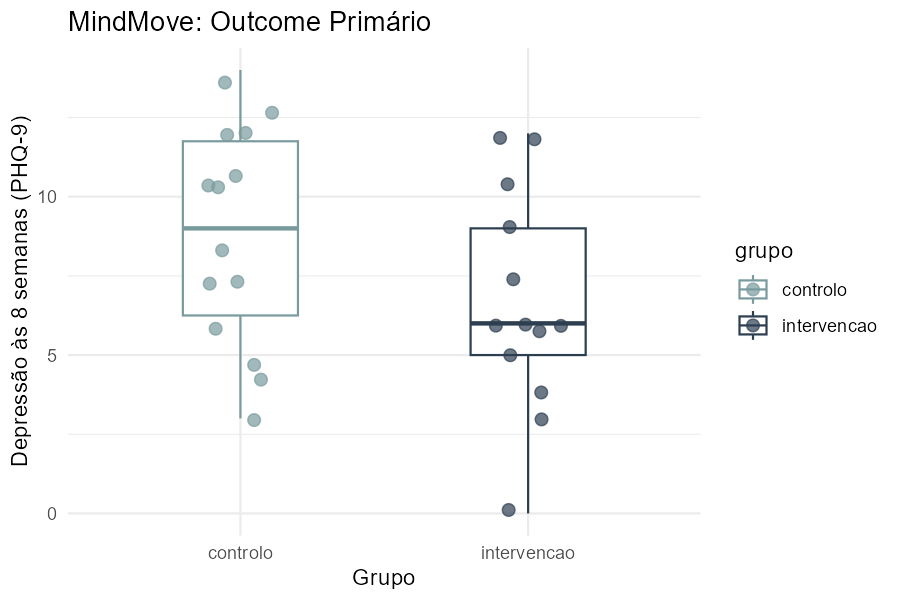
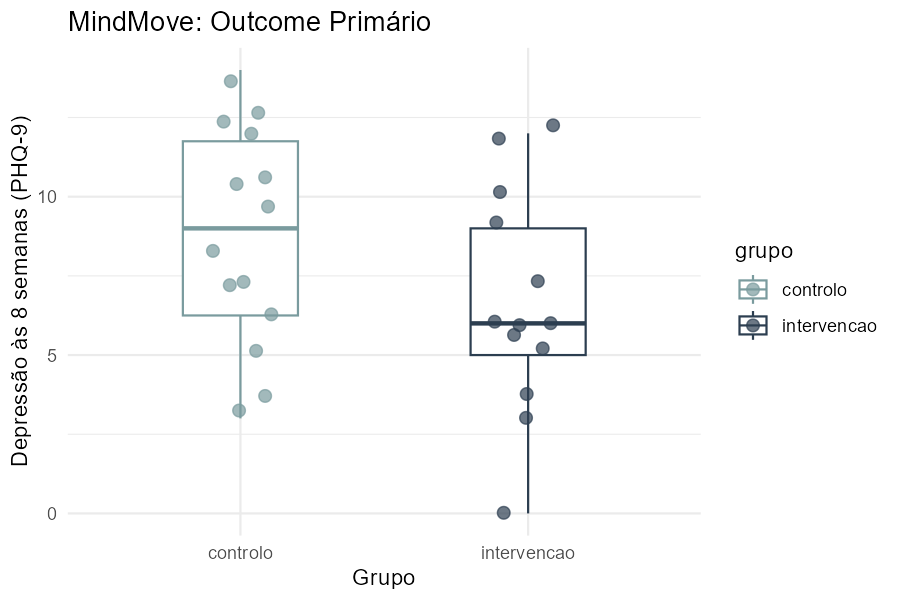
outcomes secundários

diff --git a/docs/resultados.html b/docs/resultados.html
@@ -161,23 +161,23 @@ ul.task-list li input[type="checkbox"] {
 <p>Aqui estão os resultados da nossa análise estatística sobre o projeto MindMove:</p>
 <div class="cell">
 <div class="cell-output-display">
-<div id="wqkzmlhntv" style="padding-left:0px;padding-right:0px;padding-top:10px;padding-bottom:10px;overflow-x:auto;overflow-y:auto;width:auto;height:auto;">
-<style>#wqkzmlhntv table {
+<div id="tmdspbfejf" style="padding-left:0px;padding-right:0px;padding-top:10px;padding-bottom:10px;overflow-x:auto;overflow-y:auto;width:auto;height:auto;">
+<style>#tmdspbfejf table {
   font-family: system-ui, 'Segoe UI', Roboto, Helvetica, Arial, sans-serif, 'Apple Color Emoji', 'Segoe UI Emoji', 'Segoe UI Symbol', 'Noto Color Emoji';
   -webkit-font-smoothing: antialiased;
   -moz-osx-font-smoothing: grayscale;
 }
 
-#wqkzmlhntv thead, #wqkzmlhntv tbody, #wqkzmlhntv tfoot, #wqkzmlhntv tr, #wqkzmlhntv td, #wqkzmlhntv th {
+#tmdspbfejf thead, #tmdspbfejf tbody, #tmdspbfejf tfoot, #tmdspbfejf tr, #tmdspbfejf td, #tmdspbfejf th {
   border-style: none;
 }
 
-#wqkzmlhntv p {
+#tmdspbfejf p {
   margin: 0;
   padding: 0;
 }
 
-#wqkzmlhntv .gt_table {
+#tmdspbfejf .gt_table {
   display: table;
   border-collapse: collapse;
   line-height: normal;
@@ -203,12 +203,12 @@ ul.task-list li input[type="checkbox"] {
   border-left-color: #D3D3D3;
 }
 
-#wqkzmlhntv .gt_caption {
+#tmdspbfejf .gt_caption {
   padding-top: 4px;
   padding-bottom: 4px;
 }
 
-#wqkzmlhntv .gt_title {
+#tmdspbfejf .gt_title {
   color: #333333;
   font-size: 125%;
   font-weight: initial;
@@ -220,7 +220,7 @@ ul.task-list li input[type="checkbox"] {
   border-bottom-width: 0;
 }
 
-#wqkzmlhntv .gt_subtitle {
+#tmdspbfejf .gt_subtitle {
   color: #333333;
   font-size: 85%;
   font-weight: initial;
@@ -232,7 +232,7 @@ ul.task-list li input[type="checkbox"] {
   border-top-width: 0;
 }
 
-#wqkzmlhntv .gt_heading {
+#tmdspbfejf .gt_heading {
   background-color: #FFFFFF;
   text-align: center;
   border-bottom-color: #FFFFFF;
@@ -244,13 +244,13 @@ ul.task-list li input[type="checkbox"] {
   border-right-color: #D3D3D3;
 }
 
-#wqkzmlhntv .gt_bottom_border {
+#tmdspbfejf .gt_bottom_border {
   border-bottom-style: solid;
   border-bottom-width: 2px;
   border-bottom-color: #D3D3D3;
 }
 
-#wqkzmlhntv .gt_col_headings {
+#tmdspbfejf .gt_col_headings {
   border-top-style: solid;
   border-top-width: 2px;
   border-top-color: #D3D3D3;
@@ -265,7 +265,7 @@ ul.task-list li input[type="checkbox"] {
   border-right-color: #D3D3D3;
 }
 
-#wqkzmlhntv .gt_col_heading {
+#tmdspbfejf .gt_col_heading {
   color: #333333;
   background-color: #FFFFFF;
   font-size: 100%;
@@ -285,7 +285,7 @@ ul.task-list li input[type="checkbox"] {
   overflow-x: hidden;
 }
 
-#wqkzmlhntv .gt_column_spanner_outer {
+#tmdspbfejf .gt_column_spanner_outer {
   color: #333333;
   background-color: #FFFFFF;
   font-size: 100%;
@@ -297,15 +297,15 @@ ul.task-list li input[type="checkbox"] {
   padding-right: 4px;
 }
 
-#wqkzmlhntv .gt_column_spanner_outer:first-child {
+#tmdspbfejf .gt_column_spanner_outer:first-child {
   padding-left: 0;
 }
 
-#wqkzmlhntv .gt_column_spanner_outer:last-child {
+#tmdspbfejf .gt_column_spanner_outer:last-child {
   padding-right: 0;
 }
 
-#wqkzmlhntv .gt_column_spanner {
+#tmdspbfejf .gt_column_spanner {
   border-bottom-style: solid;
   border-bottom-width: 2px;
   border-bottom-color: #D3D3D3;
@@ -317,11 +317,11 @@ ul.task-list li input[type="checkbox"] {
   width: 100%;
 }
 
-#wqkzmlhntv .gt_spanner_row {
+#tmdspbfejf .gt_spanner_row {
   border-bottom-style: hidden;
 }
 
-#wqkzmlhntv .gt_group_heading {
+#tmdspbfejf .gt_group_heading {
   padding-top: 8px;
   padding-bottom: 8px;
   padding-left: 5px;
@@ -347,7 +347,7 @@ ul.task-list li input[type="checkbox"] {
   text-align: left;
 }
 
-#wqkzmlhntv .gt_empty_group_heading {
+#tmdspbfejf .gt_empty_group_heading {
   padding: 0.5px;
   color: #333333;
   background-color: #FFFFFF;
@@ -362,15 +362,15 @@ ul.task-list li input[type="checkbox"] {
   vertical-align: middle;
 }
 
-#wqkzmlhntv .gt_from_md > :first-child {
+#tmdspbfejf .gt_from_md > :first-child {
   margin-top: 0;
 }
 
-#wqkzmlhntv .gt_from_md > :last-child {
+#tmdspbfejf .gt_from_md > :last-child {
   margin-bottom: 0;
 }
 
-#wqkzmlhntv .gt_row {
+#tmdspbfejf .gt_row {
   padding-top: 8px;
   padding-bottom: 8px;
   padding-left: 5px;
@@ -389,7 +389,7 @@ ul.task-list li input[type="checkbox"] {
   overflow-x: hidden;
 }
 
-#wqkzmlhntv .gt_stub {
+#tmdspbfejf .gt_stub {
   color: #333333;
   background-color: #FFFFFF;
   font-size: 100%;
@@ -402,7 +402,7 @@ ul.task-list li input[type="checkbox"] {
   padding-right: 5px;
 }
 
-#wqkzmlhntv .gt_stub_row_group {
+#tmdspbfejf .gt_stub_row_group {
   color: #333333;
   background-color: #FFFFFF;
   font-size: 100%;
@@ -416,15 +416,15 @@ ul.task-list li input[type="checkbox"] {
   vertical-align: top;
 }
 
-#wqkzmlhntv .gt_row_group_first td {
+#tmdspbfejf .gt_row_group_first td {
   border-top-width: 2px;
 }
 
-#wqkzmlhntv .gt_row_group_first th {
+#tmdspbfejf .gt_row_group_first th {
   border-top-width: 2px;
 }
 
-#wqkzmlhntv .gt_summary_row {
+#tmdspbfejf .gt_summary_row {
   color: #333333;
   background-color: #FFFFFF;
   text-transform: inherit;
@@ -434,16 +434,16 @@ ul.task-list li input[type="checkbox"] {
   padding-right: 5px;
 }
 
-#wqkzmlhntv .gt_first_summary_row {
+#tmdspbfejf .gt_first_summary_row {
   border-top-style: solid;
   border-top-color: #D3D3D3;
 }
 
-#wqkzmlhntv .gt_first_summary_row.thick {
+#tmdspbfejf .gt_first_summary_row.thick {
   border-top-width: 2px;
 }
 
-#wqkzmlhntv .gt_last_summary_row {
+#tmdspbfejf .gt_last_summary_row {
   padding-top: 8px;
   padding-bottom: 8px;
   padding-left: 5px;
@@ -453,7 +453,7 @@ ul.task-list li input[type="checkbox"] {
   border-bottom-color: #D3D3D3;
 }
 
-#wqkzmlhntv .gt_grand_summary_row {
+#tmdspbfejf .gt_grand_summary_row {
   color: #333333;
   background-color: #FFFFFF;
   text-transform: inherit;
@@ -463,7 +463,7 @@ ul.task-list li input[type="checkbox"] {
   padding-right: 5px;
 }
 
-#wqkzmlhntv .gt_first_grand_summary_row {
+#tmdspbfejf .gt_first_grand_summary_row {
   padding-top: 8px;
   padding-bottom: 8px;
   padding-left: 5px;
@@ -473,7 +473,7 @@ ul.task-list li input[type="checkbox"] {
   border-top-color: #D3D3D3;
 }
 
-#wqkzmlhntv .gt_last_grand_summary_row_top {
+#tmdspbfejf .gt_last_grand_summary_row_top {
   padding-top: 8px;
   padding-bottom: 8px;
   padding-left: 5px;
@@ -483,11 +483,11 @@ ul.task-list li input[type="checkbox"] {
   border-bottom-color: #D3D3D3;
 }
 
-#wqkzmlhntv .gt_striped {
+#tmdspbfejf .gt_striped {
   background-color: rgba(128, 128, 128, 0.05);
 }
 
-#wqkzmlhntv .gt_table_body {
+#tmdspbfejf .gt_table_body {
   border-top-style: solid;
   border-top-width: 2px;
   border-top-color: #D3D3D3;
@@ -496,7 +496,7 @@ ul.task-list li input[type="checkbox"] {
   border-bottom-color: #D3D3D3;
 }
 
-#wqkzmlhntv .gt_footnotes {
+#tmdspbfejf .gt_footnotes {
   color: #333333;
   background-color: #FFFFFF;
   border-bottom-style: none;
@@ -510,7 +510,7 @@ ul.task-list li input[type="checkbox"] {
   border-right-color: #D3D3D3;
 }
 
-#wqkzmlhntv .gt_footnote {
+#tmdspbfejf .gt_footnote {
   margin: 0px;
   font-size: 90%;
   padding-top: 4px;
@@ -519,7 +519,7 @@ ul.task-list li input[type="checkbox"] {
   padding-right: 5px;
 }
 
-#wqkzmlhntv .gt_sourcenotes {
+#tmdspbfejf .gt_sourcenotes {
   color: #333333;
   background-color: #FFFFFF;
   border-bottom-style: none;
@@ -533,7 +533,7 @@ ul.task-list li input[type="checkbox"] {
   border-right-color: #D3D3D3;
 }
 
-#wqkzmlhntv .gt_sourcenote {
+#tmdspbfejf .gt_sourcenote {
   font-size: 90%;
   padding-top: 4px;
   padding-bottom: 4px;
@@ -541,72 +541,72 @@ ul.task-list li input[type="checkbox"] {
   padding-right: 5px;
 }
 
-#wqkzmlhntv .gt_left {
+#tmdspbfejf .gt_left {
   text-align: left;
 }
 
-#wqkzmlhntv .gt_center {
+#tmdspbfejf .gt_center {
   text-align: center;
 }
 
-#wqkzmlhntv .gt_right {
+#tmdspbfejf .gt_right {
   text-align: right;
   font-variant-numeric: tabular-nums;
 }
 
-#wqkzmlhntv .gt_font_normal {
+#tmdspbfejf .gt_font_normal {
   font-weight: normal;
 }
 
-#wqkzmlhntv .gt_font_bold {
+#tmdspbfejf .gt_font_bold {
   font-weight: bold;
 }
 
-#wqkzmlhntv .gt_font_italic {
+#tmdspbfejf .gt_font_italic {
   font-style: italic;
 }
 
-#wqkzmlhntv .gt_super {
+#tmdspbfejf .gt_super {
   font-size: 65%;
 }
 
-#wqkzmlhntv .gt_footnote_marks {
+#tmdspbfejf .gt_footnote_marks {
   font-size: 75%;
   vertical-align: 0.4em;
   position: initial;
 }
 
-#wqkzmlhntv .gt_asterisk {
+#tmdspbfejf .gt_asterisk {
   font-size: 100%;
   vertical-align: 0;
 }
 
-#wqkzmlhntv .gt_indent_1 {
+#tmdspbfejf .gt_indent_1 {
   text-indent: 5px;
 }
 
-#wqkzmlhntv .gt_indent_2 {
+#tmdspbfejf .gt_indent_2 {
   text-indent: 10px;
 }
 
-#wqkzmlhntv .gt_indent_3 {
+#tmdspbfejf .gt_indent_3 {
   text-indent: 15px;
 }
 
-#wqkzmlhntv .gt_indent_4 {
+#tmdspbfejf .gt_indent_4 {
   text-indent: 20px;
 }
 
-#wqkzmlhntv .gt_indent_5 {
+#tmdspbfejf .gt_indent_5 {
   text-indent: 25px;
 }
 
-#wqkzmlhntv .katex-display {
+#tmdspbfejf .katex-display {
   display: inline-flex !important;
   margin-bottom: 0.75em !important;
 }
 
-#wqkzmlhntv div.Reactable > div.rt-table > div.rt-thead > div.rt-tr.rt-tr-group-header > div.rt-th-group:after {
+#tmdspbfejf div.Reactable > div.rt-table > div.rt-thead > div.rt-tr.rt-tr-group-header > div.rt-th-group:after {
   height: 0px !important;
 }
 </style>